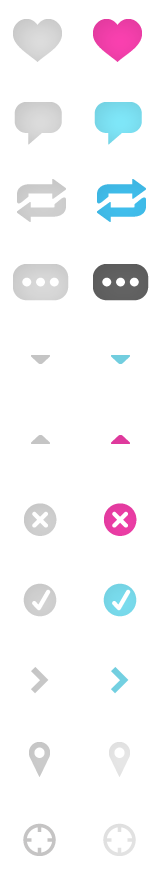
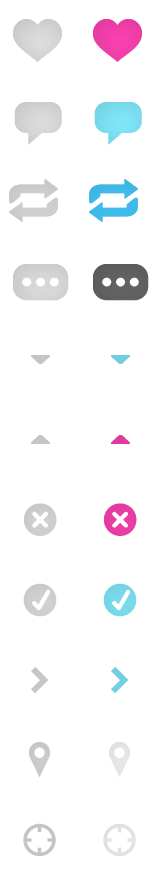
add in share button to feed, tweak comps

diff --git a/theme/snapr/css/theme.css b/theme/snapr/css/theme.css
@@ -1821,7 +1821,7 @@
 .profile-icons.ui-icon-link {
   background-position: 0 -64px;
 }
-.competition-ribbon {
+.s-competition-ribbon {
   background-position: 0 0;
   background-image: url('../gfx/comp-ribbon.png');
   width: 44px;
@@ -3991,6 +3991,9 @@ a:active {
 .x-closed .ui-bar .ui-icon-open {
   background-position: 0 -32px;
 }
+.x-closed .ui-bar.ui-btn-up-e .ui-icon-open {
+  background-position: -128px -32px;
+}
 .x-has-dropdown.s-ui-bar-dropdown.ui-bar .ui-btn-inner .ui-btn-text .ui-icon-arrow-d {
   display: inline-block;
 }
@@ -5340,10 +5343,33 @@ textarea.ui-input-text {
   background-position: -99px 0px;
   right: -4px;
 }
-.s-competition .competition-ribbon {
-  line-height: 43px;
+.s-competition-ribbon {
+  line-height: 48px;
   text-align: center;
   text-shadow: 0 -1px 1px #ffffff;
+  font-family: 'ralewayregular', Helvetica, Arial, sans-serif;
+}
+.s-prize-details {
+  margin-top: 8px;
+}
+.s-prize-details .s-user-icon-left .s-profile-icon {
+  background-color: #ffffff;
+}
+.s-prize-details .s-details {
+  padding-left: 108px;
+  min-height: 100px;
+}
+.s-prize-details .s-details .s-prize-name {
+  line-height: 21px;
+  font-family: Helvetica, Arial, sans-serif;
+  font-weight: bold;
+  font-size: 16px;
+  text-transform: none;
+  margin-bottom: 4px;
+}
+.s-prize-details .s-details .s-prize-website .ui-icon-link {
+  width: 24px;
+  left: -8px;
 }
 .s-feed-view-toggle .ui-btn-text .ui-icon-list-view {
   background-position: 0px -360px;
@@ -5547,7 +5573,7 @@ textarea.ui-input-text {
   display: inline-block;
 }
 .s-image-item-block .s-image-actions .ui-btn.action-icons {
-  color: #666666;
+  color: #999999;
   margin-right: 4px;
 }
 .s-image-item-block .s-image-actions .ui-btn.action-icons .ui-btn-inner {
@@ -7756,7 +7782,7 @@ div.ps-carousel-item-loading {
     -o-background-size: 24px 96px;
     background-size: 24px 96px;
   }
-  .ui.icon.competition-ribbon {
+  .ui.icon.s-competition-ribbon {
     background-image: url('../gfx/retina/comp-ribbon.png');
     -moz-background-size: 44px 53px;
     -o-background-size: 44px 53px;

diff --git a/theme/snapr/css/main.less b/theme/snapr/css/main.less
@@ -342,6 +342,11 @@ a:active{
         } 
         .ui-icon-open{
             background-position: @gfxBar-x @gfxBar-closed-y;
+        }
+        &.ui-btn-up-e{
+            .ui-icon-open{
+                background-position: @gfxBar-x-e @gfxBar-closed-y;
+            }  
         }     
     }
 }
@@ -1375,15 +1380,43 @@ textarea.ui-input-text {
 // @COMPS
 // ----------------------------
 
-.s-competition {
-    .competition-ribbon {
-        line-height: 43px;
-        text-align: center;
-        text-shadow: 0 -1px 1px @white;
-    }
+
+.s-competition-ribbon {
+    line-height: 48px;
+    text-align: center;
+    text-shadow: 0 -1px 1px @white;
+    font-family: @fontSpecial;
 }
 
 
+// @PRIZE
+// -------------------------
+ 
+ 
+.s-prize-details{
+    margin-top: @padding * 2;
+    .s-user-icon-left{
+        .s-profile-icon{
+            background-color: @white;
+        }
+    }    
+    .s-details{
+        padding-left: @avatarSizeLarge + @paddingElement;
+        min-height: @avatarSizeLarge;
+        .s-prize-name{
+            line-height: @gfxShareSmall-grid;
+            font-size:  @fontSizeUsername;
+            .username-font();
+            margin-bottom: @padding;
+        }
+        .s-prize-website{
+            .ui-icon-link{
+                width: 24px;
+                left: -8px;
+            }
+        } 
+    }
+}
 
 
 
@@ -1589,7 +1622,7 @@ textarea.ui-input-text {
             display: inline-block;
         }
         .ui-btn.action-icons{
-            color: @grayDark;
+            color: @gray;
             margin-right: @padding;
             .ui-btn-inner{
                 padding: 0 0 0 @gfxAction-grid - @padding;

diff --git a/theme/snapr/css/retina.less b/theme/snapr/css/retina.less
@@ -73,7 +73,7 @@
         background-image: url('@{gfxRetina}@{gfxDistance}');
         .background-size(@gfxDistance-width @gfxDistance-height);                                          
     }
-    .ui.icon.competition-ribbon {
+    .ui.icon.s-competition-ribbon {
         background-image: url('@{gfxRetina}@{gfxCompRibbon}');
         .background-size (@gfxCompRibbon-width, @gfxCompRibbon-height);
     }

diff --git a/theme/snapr/css/icons.less b/theme/snapr/css/icons.less
@@ -543,7 +543,7 @@
 // COMPETITION ICONS
 //-------------------
 
-.competition-ribbon {
+.s-competition-ribbon {
     background-position: @gfxCompRibbon-x @gfxCompRibbon-y;
     background-image: url('@{gfx}@{gfxCompRibbon}');
     width: @gfxCompRibbon-width;
